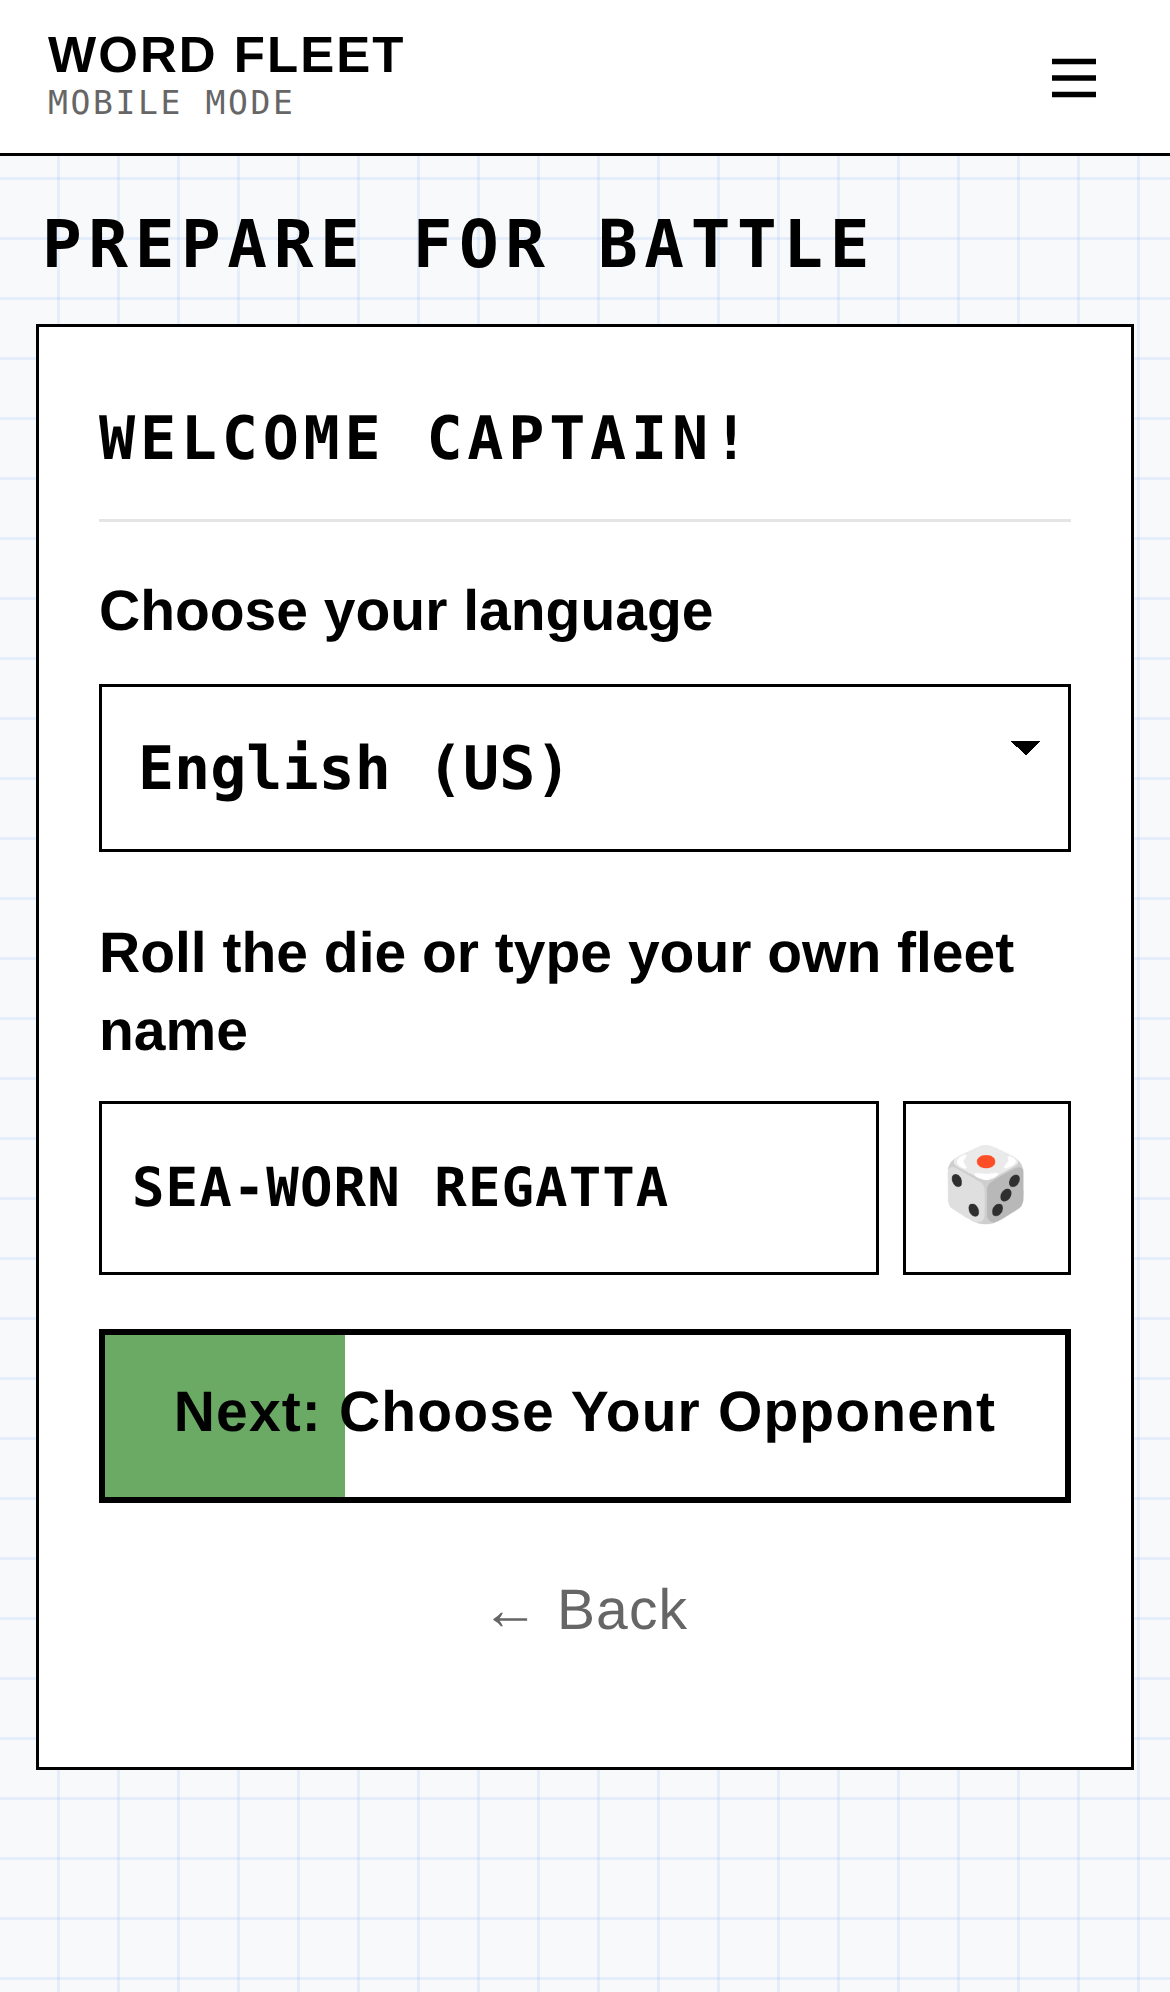
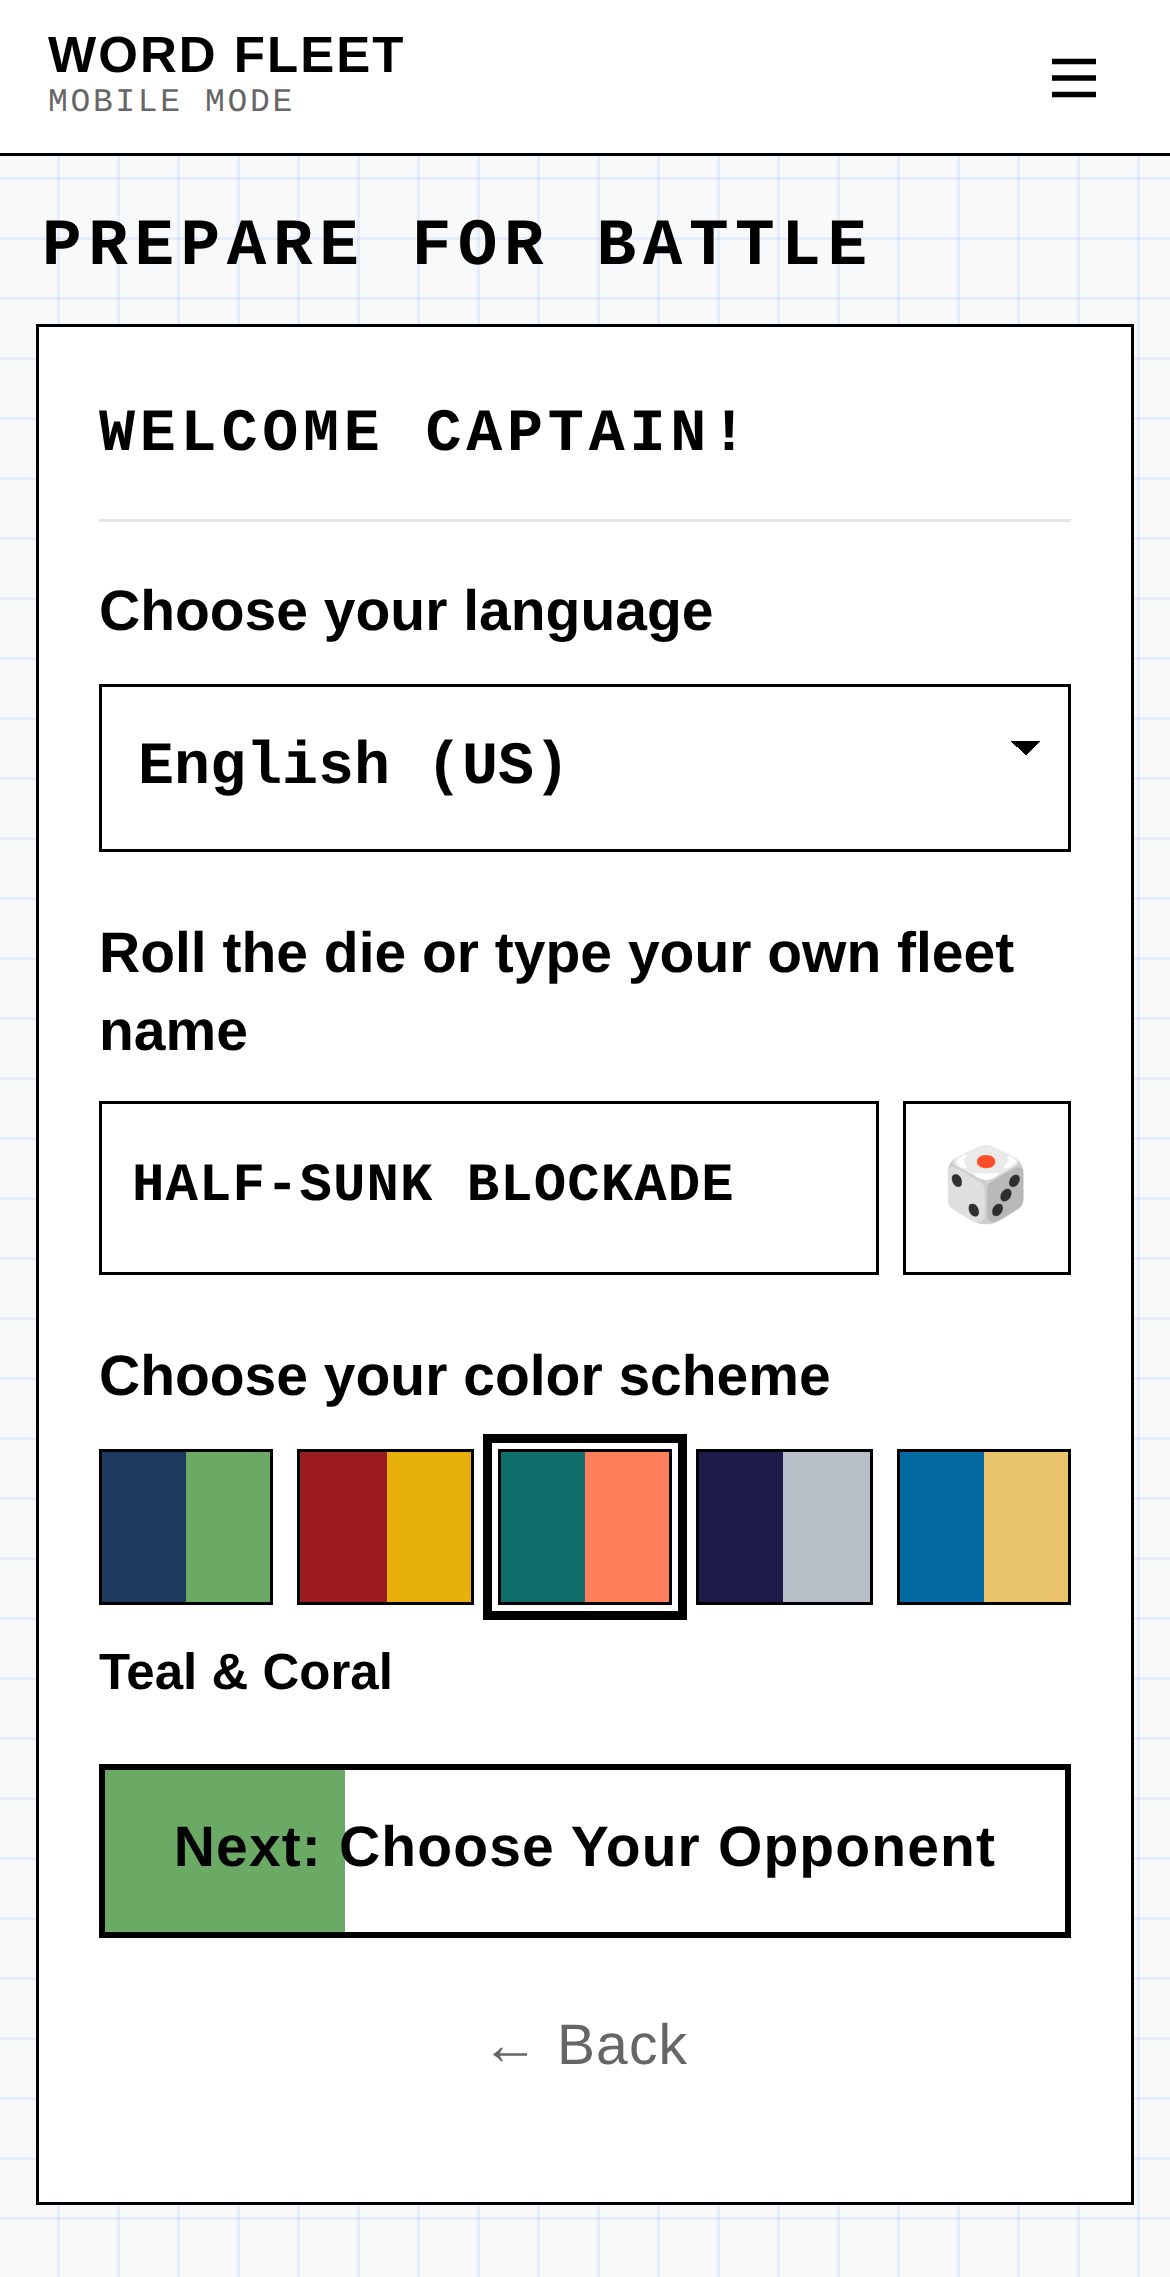
001: Choose your color scheme (five two-color choices, saved; not applied yet)
Claude-Session: https://claude.ai/code/session_013sUGAAEC45a1EJCrQWVj9Q

diff --git a/mobile/app.js b/mobile/app.js
@@ -37,6 +37,15 @@
                  pattern: true, vowelCost: 0.3, noise: 0.05, solve: { known: 0.4, share: 0.7 } }
   };
 
+  // Color schemes offered on 001 (two colors each). Saved as S.colors; where they apply is decided later.
+  var COLOR_SCHEMES = [
+    { id: 'navy-green',      name: 'Navy & Green',      colors: ['#1f3a5f', '#6aaa64'] },
+    { id: 'crimson-gold',    name: 'Crimson & Gold',    colors: ['#9b1b1f', '#e8b10a'] },
+    { id: 'teal-coral',      name: 'Teal & Coral',      colors: ['#0f6e6a', '#ff7f5c'] },
+    { id: 'midnight-silver', name: 'Midnight & Silver', colors: ['#1e1b4b', '#b8bec8'] },
+    { id: 'ocean-sand',      name: 'Ocean & Sand',      colors: ['#0369a1', '#e9c46a'] }
+  ];
+
   var FLEET_ADJ = ['Salty', 'Barnacle-Crusted', 'Rum-Soaked', 'Royal', 'Crabby', 'Peg-Legged', 'Stormy', 'Treacherous', 'Cursed', 'Ghostly', 'Iron-Bound', 'Sea-Worn', 'Soggy-Bottom', 'Windswept', 'Ironclad', 'Thunderhead', 'Bloodwake', 'Scurvy', "Admiral's", "Commodore's", 'Steel-Hulled', 'Storm-Battered', 'Salt-Crusted', 'Rust-Stained', 'Sun-Bleached', 'Cannon-Heavy', 'Torpedo-Laden', 'Merciless', 'Grog-Fueled', 'Hook-Handed', "Kraken's", "Siren's", "Neptune's", 'Abyssal', 'Phantom', 'Half-Sunk', 'Creaking', 'Patched-Up', 'Battle-Scarred'];
   var FLEET_NOUN = ['Armada', 'Fleet', 'Flotilla', 'Squadron', 'Convoy', 'Navy', 'Task Force', 'Krewe', 'Battlegroup', 'Regatta', 'Patrol', 'Strike Force', 'Vanguard', 'Blockade', 'Tempest', 'Gale', 'Maelstrom', 'Admiralty', 'Legion', 'Brotherhood', 'Alliance', 'Trench', 'Reef', 'Harbor', 'Siege', 'Bombardment', 'Expedition', 'Voyage', 'Odyssey',
                     'Wolfpack', 'Corsairs', 'Privateers', 'Buccaneers', 'Marauders', 'Raiders', 'Escort', 'Picket Line', 'Dreadnoughts', 'Mariners'];
@@ -249,6 +258,7 @@
       lang: (S && S.lang) || (lang && lang.code) || 'en-US',
       offensiveOk: !!(S && S.offensiveOk),
       mode: (S && S.mode) || 'auto',
+      colors: (S && S.colors) || COLOR_SCHEMES[0].id,
       me: { name: randomFleetName(), words: randomWords(), ships: null },
       foe: null,
       myShots: {}, myTallies: {},
@@ -374,6 +384,12 @@
       return '<option value="' + esc(l.code) + '"' + (lang && l.code === lang.code ? ' selected' : '') + '>' + esc(l.name) + '</option>';
     }).join('');
     $('selLang').disabled = languages.length < 2;
+    var scheme = S.colors || COLOR_SCHEMES[0].id;
+    $('colorSchemes').innerHTML = COLOR_SCHEMES.map(function (cs) {
+      return '<button type="button" class="swatch' + (cs.id === scheme ? ' is-on' : '') + '" data-scheme="' + cs.id + '" role="radio" aria-checked="' + (cs.id === scheme) + '" aria-label="' + esc(cs.name) + '">' +
+        '<i style="background:' + cs.colors[0] + '"></i><i style="background:' + cs.colors[1] + '"></i></button>';
+    }).join('');
+    $('colorSchemeName').textContent = COLOR_SCHEMES.filter(function (cs) { return cs.id === scheme; })[0].name;
     $('chkOffensive').checked = offensiveOk();
     setSeg('segLevel', S.level);
     $('levelHint').innerHTML = esc(LEVELS[S.level].hint) + ' <strong>e.g. ' + LEVELS[S.level].example + '</strong>';
@@ -1111,6 +1127,11 @@
     while (el.scrollWidth > el.clientWidth && size > 11) el.style.fontSize = (size -= 1) + 'px';
   }
   on($('inFleet'), 'input', function () { S.me.name = this.value.toUpperCase(); fitFleetName(); save(); });
+  on($('colorSchemes'), 'click', function (e) {
+    var b = e.target.closest('[data-scheme]');
+    if (!b) return;
+    S.colors = b.getAttribute('data-scheme'); save(); renderSetup();
+  });
   on($('btnRollName'), 'click', function () { S.me.name = randomFleetName(); $('inFleet').value = S.me.name; fitFleetName(); save(); });
   on($('segLevel'), 'click', function (e) {
     var v = e.target.getAttribute('data-v');

diff --git a/mobile/index.html b/mobile/index.html
@@ -18,7 +18,7 @@
   <link rel="preconnect" href="https://fonts.gstatic.com" crossorigin>
   <link href="https://fonts.googleapis.com/css2?family=Courier+Prime:wght@400;700&family=Inter:wght@400;500;600;700&display=swap" rel="stylesheet">
   <!-- Bump ?v= on every release (and CACHE in sw.js) so a new page never runs old code. -->
-  <link rel="stylesheet" href="app.css?v=55">
+  <link rel="stylesheet" href="app.css?v=56">
 </head>
 <body>
 
@@ -64,6 +64,10 @@
         <input class="input" id="inFleet" maxlength="24" autocomplete="off" autocapitalize="characters" spellcheck="false" placeholder="SALTY ARMADA">
         <button class="btn btn--sq" id="btnRollName" type="button" aria-label="Random fleet name">&#x1F3B2;</button>
       </div>
+
+      <span class="label label--say" id="lblColors">Choose your color scheme</span>
+      <div class="swatches" id="colorSchemes" role="radiogroup" aria-labelledby="lblColors"></div>
+      <p class="hint hint--label swatch-name" id="colorSchemeName"></p>
 
       <button class="btn btn--wide btn--next btn--progress" style="--progress: 25%" id="btnToOpponent" type="button" aria-label="Next: Choose Your Opponent (step 1 of 4 done)">Next: Choose Your Opponent</button>
       <a class="btn btn--ghost btn--wide" id="lnkHome" href="../">&larr; Back</a>
@@ -218,7 +222,7 @@
 
 <div class="toast" id="toast" hidden></div>
 
-<script src="audio.js?v=55"></script>
-<script src="app.js?v=55"></script>
+<script src="audio.js?v=56"></script>
+<script src="app.js?v=56"></script>
 </body>
 </html>

diff --git a/mobile/app.css b/mobile/app.css
@@ -477,3 +477,12 @@ button.mf { font: inherit; color: var(--ink); width: 100%; padding: 3px 0 2px; c
 .deploy-board { margin: 0 0 4px; }
 .deploy-frame { border: 1px solid var(--ink); border-top: 4px solid var(--navy); padding: 10px 0; background: var(--paper); }
 .deploy-board { --board: min(calc(100vw - 54px), 468px); }
+
+/* 001: color scheme swatches, two colors each */
+.swatches { display: grid; grid-template-columns: repeat(5, 1fr); gap: 8px; }
+.swatch { display: flex; height: 52px; padding: 0; border: 1px solid var(--ink); background: var(--paper); cursor: pointer; overflow: hidden; }
+.swatch i { flex: 1; }
+.swatch.is-on { outline: 3px solid var(--ink); outline-offset: 2px; }
+.swatch:focus-visible { outline: 3px solid var(--green-dark); outline-offset: 2px; }
+.setup-big .swatch-name { margin: 10px 0 0; font-weight: 600; color: var(--ink); }
+.setup-big #lblColors { margin-top: 22px; }

diff --git a/mobile/sw.js b/mobile/sw.js
@@ -1,11 +1,11 @@
 /* Word Fleet service worker: the whole game works offline once loaded. */
-var CACHE = 'wordfleet-v55';
+var CACHE = 'wordfleet-v56';
 var SHELL = [
   './',
   'index.html',
-  'app.css?v=55',
-  'app.js?v=55',
-  'audio.js?v=55',
+  'app.css?v=56',
+  'app.js?v=56',
+  'audio.js?v=56',
   'manifest.webmanifest',
   'icons/icon-180.png',
   'icons/icon-192.png',

diff --git a/mobile/screens/README.md b/mobile/screens/README.md
@@ -8,7 +8,7 @@ referred to by name when asking for changes. Each has a reference snapshot in th
 | Name | In the code | Snapshot | What it is |
 | --- | --- | --- | --- |
 | **MOBILE-HOME** *(parked)* | `<section id="scrMobileHome" data-screen="MOBILE-HOME">`, `SCREENS.home` | `mobile-home.png` | **Parked, not shown to players.** Kept for later use. Was the first screen: WORD FLEET title, Mobile Mode tag, blurb, New Battle and Rules of Engagement buttons. The app now opens on 001-MOBILE-PREPARE. |
-| **001-MOBILE-PREPARE** | `<section id="scrSetup" data-screen="001-MOBILE-PREPARE">`, `SCREENS.setup` | `001-mobile-prepare.png` | **First screen players see.** Card title "Welcome Captain!". "Choose your language", then "Roll the die or type your own fleet name" (with dice). Changing language rolls a new fleet name in that language (`dictionaries/fleet-names.json`). Button "Next: Choose Your Opponent", filled 25% green as a progress bar. "← Back" goes to the Word Fleet home page (`../`, the site's `index.html`). Screens 001-004 share one look: a "PREPARE FOR BATTLE" page header above the card (`.page-head`), the step's card title, plain-language section headers (`.label--say`), and large, easy-to-read text (`.setup-big`). |
+| **001-MOBILE-PREPARE** | `<section id="scrSetup" data-screen="001-MOBILE-PREPARE">`, `SCREENS.setup` | `001-mobile-prepare.png` | **First screen players see.** Card title "Welcome Captain!". "Choose your language", then "Roll the die or type your own fleet name" (with dice). "Choose your color scheme": five two-color swatches (Navy & Green, Crimson & Gold, Teal & Coral, Midnight & Silver, Ocean & Sand), saved as `S.colors`; not applied anywhere yet. Changing language rolls a new fleet name in that language (`dictionaries/fleet-names.json`). Button "Next: Choose Your Opponent", filled 25% green as a progress bar. "← Back" goes to the Word Fleet home page (`../`, the site's `index.html`). Screens 001-004 share one look: a "PREPARE FOR BATTLE" page header above the card (`.page-head`), the step's card title, plain-language section headers (`.label--say`), and large, easy-to-read text (`.setup-big`). |
 | **002-MOBILE-OPPONENT** | `<section id="scrOpponent" data-screen="002-MOBILE-OPPONENT">`, `SCREENS.opponent` | `002-mobile-opponent.png` | Card title "Choose Your Opponent", section "Pick the AI Captain you'll face": the three AI Captains (Captain Rubber Duck, Captain Steady, Captain Lexicon), each with a short character sketch. Button "Next: Build Your Word-Ships", filled 50% green. |
 | **003-MOBILE-WORD-SHIPS** | `<section id="scrWords" data-screen="003-MOBILE-WORD-SHIPS">`, `SCREENS.words` | `003-mobile-word-ships.png` | Card title "Build Your Word-Ships". Section "Offensive words": a "Possibly Offensive Words OK" on/off switch, "Applies to both fleets." Section "Your five word-ships" (Refresh All at the right end of its header): "Tap any word to type your own." The five word-ships arrive drawn for your opponent and are editable, each with a ↻ redraw. A typed word is checked against the dictionary when its box loses focus, and every word is checked again on "Next: Deploy Your Fleet" (filled 75% green). |
 | **004-MOBILE-DEPLOY** | `<section id="scrDeploy" data-screen="004-MOBILE-DEPLOY">`, `SCREENS.deploy` | `004-mobile-deploy.png` | Step 4 of 4 of Prepare for Battle, same look as 001-003. Card title "Deploy Your Fleet", then the Defense Grid dressed like the in-game one (navy "DEFENSE GRID" banner with your fleet name under it, navy top edge). Opens with the five word-ships already deployed at random, in green; they never leave the grid. Section "Keep this layout or rearrange it" with a Shuffle button (new random layout); drag a ship to move it, double-tap its first letter to turn it. "Confirm Deployment" (progress bar full), Back. |
